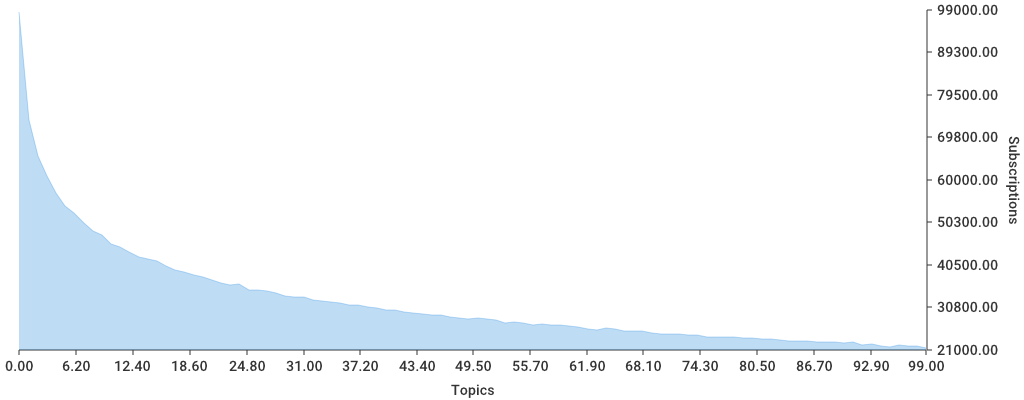
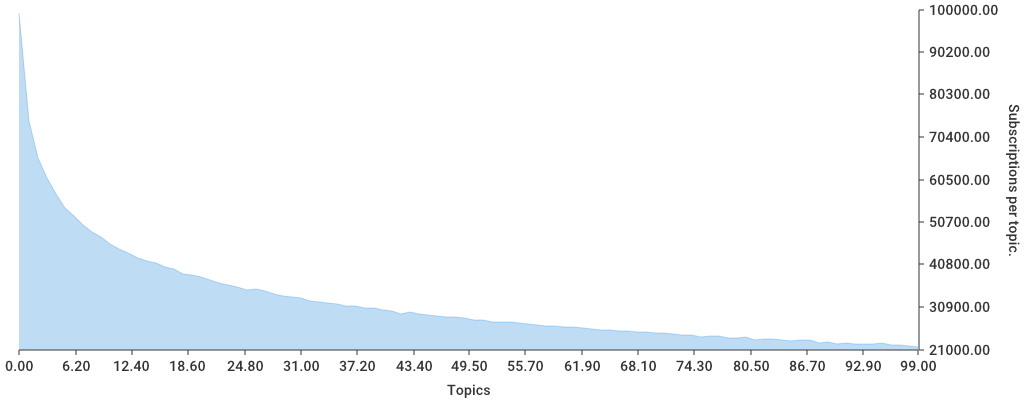
made graphs more clear

diff --git a/_simulation/subfprate.go b/_simulation/subfprate.go
@@ -37,12 +37,12 @@ func drawChart(res http.ResponseWriter, req *http.Request) {
 
 	graph := chart.Chart{
 		XAxis: chart.XAxis{
-			Name:      "Subscriptions",
+			Name:      "Node topic subscriptions.",
 			NameStyle: chart.StyleShow(),
 			Style:     chart.StyleShow(),
 		},
 		YAxis: chart.YAxis{
-			Name:      "False Positive Rate",
+			Name:      "Node false positive rate.",
 			NameStyle: chart.StyleShow(),
 			Style:     chart.StyleShow(),
 		},

diff --git a/_simulation/subdistribution.go b/_simulation/subdistribution.go
@@ -61,7 +61,7 @@ func drawChart(res http.ResponseWriter, req *http.Request) {
 			Style:     chart.StyleShow(),
 		},
 		YAxis: chart.YAxis{
-			Name:      "Subscriptions",
+			Name:      "Subscriptions per topic.",
 			NameStyle: chart.StyleShow(),
 			Style:     chart.StyleShow(),
 		},
